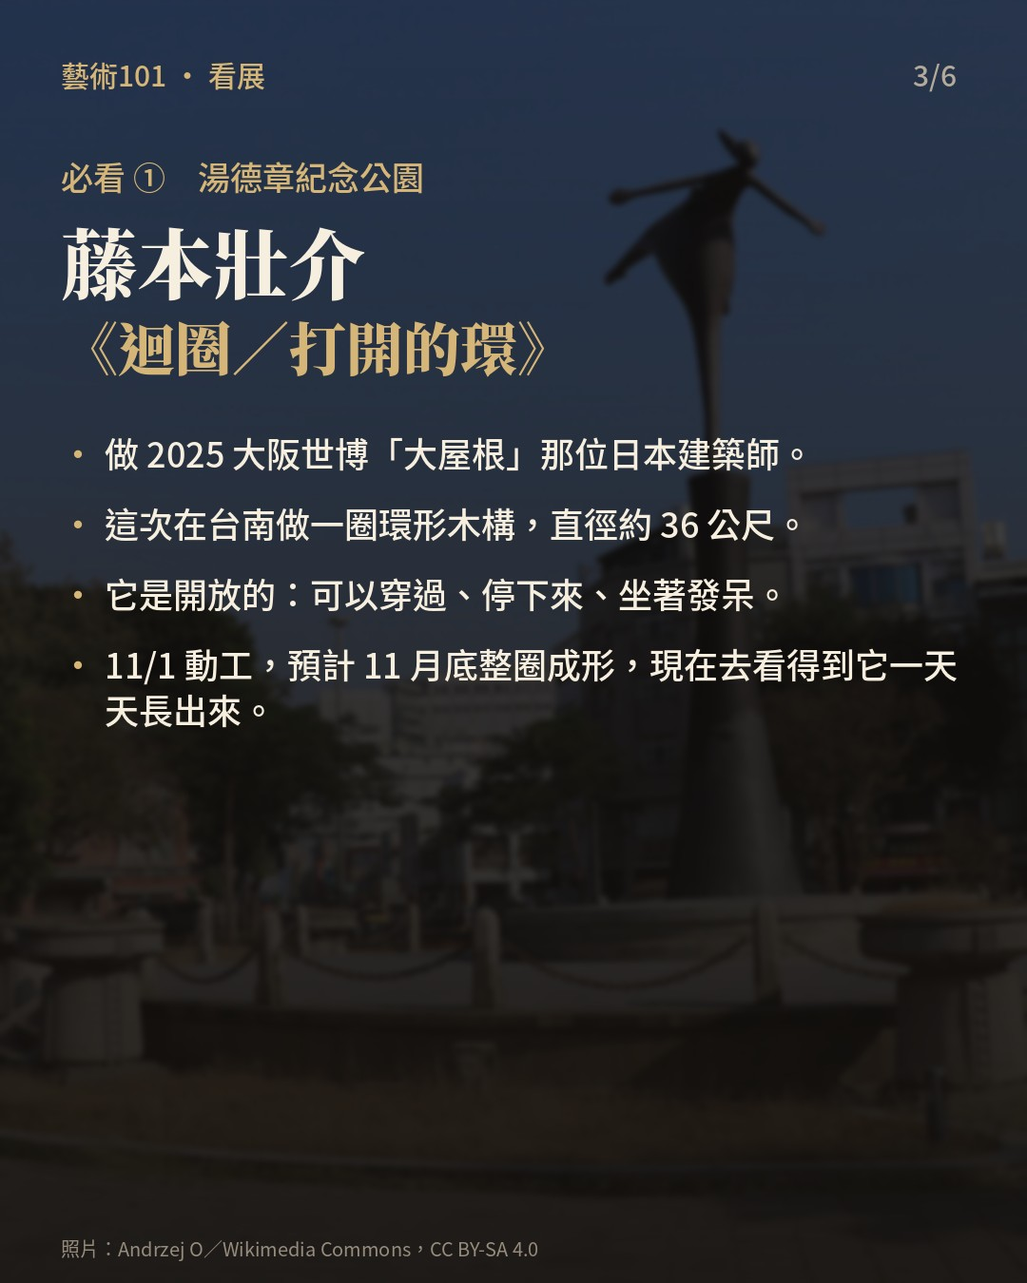
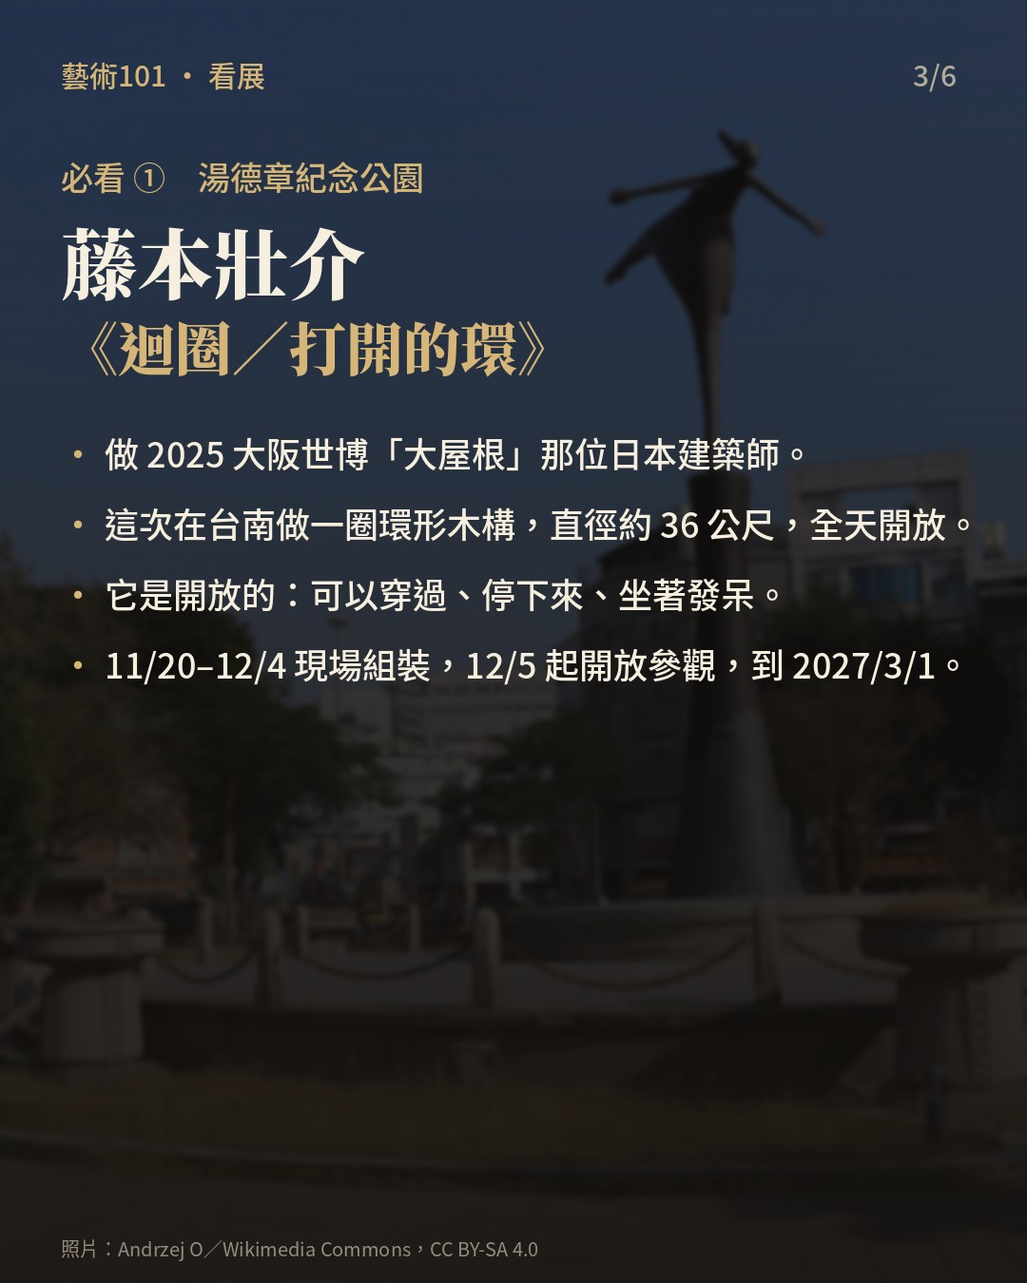
art101: 台南雙年展 32 展區互動地圖頁＋地圖輪播（11/22 10:00）；修正藤本木構開放日 12/5
Claude-Session: https://claude.ai/code/session_01KygmSQF8dun4emkJ3DwCDk

Changed region(s): [[0.0917, 0.4978, 0.9472, 0.5911], [0.7639, 0.3733, 0.9167, 0.4356]]

diff --git a/art101/tainan-biennale/index.html b/art101/tainan-biennale/index.html
@@ -1,0 +1,58 @@
+<!doctype html><html lang=zh-Hant><head><meta charset=utf-8><meta name=viewport content="width=device-width,initial-scale=1">
+<title>台南藝術雙年展 32 展區地圖｜藝術101</title><meta name=description content="第一屆台南藝術雙年展 32 個展區：位置、開放時間、要不要買票、看什麼，加兩條散步路線。">
+<meta property=og:title content="台南藝術雙年展 32 展區地圖｜藝術101"><meta property=og:description content="32 個展區一張地圖看完，附兩天散步路線。">
+<link href="https://fonts.googleapis.com/css2?family=Noto+Sans+TC:wght@400;700&family=Noto+Serif+TC:wght@700;900&display=swap" rel=stylesheet><link rel=stylesheet href="https://cdnjs.cloudflare.com/ajax/libs/leaflet/1.9.4/leaflet.min.css">
+<style>:root{--bg:#14120f;--ink:#efe8db;--mute:#a59b8a;--gold:#d8b46a;--card:#1d1a16;--line:#2e2a24;--hi:#fff8ea;--sat:#8fa7b8}
+*{box-sizing:border-box}body{margin:0;background:var(--bg);color:var(--ink);font:400 16px/1.75 'Noto Sans TC',system-ui,sans-serif}a{color:inherit;text-decoration:none}
+.wrap{max-width:1080px;margin:0 auto;padding:0 16px}header{position:sticky;top:0;z-index:1000;background:rgba(20,18,15,.92);backdrop-filter:blur(10px);border-bottom:1px solid var(--line)}
+header .wrap{display:flex;align-items:center;justify-content:space-between;height:56px;gap:12px}.logo{color:var(--gold);font-weight:700;letter-spacing:.18em;white-space:nowrap}
+nav{display:flex;gap:14px;font-size:14px;color:var(--mute);white-space:nowrap}nav a:hover,nav a.on{color:var(--hi)}@media(max-width:520px){nav{gap:10px;font-size:13px}.hide-s{display:none}}
+.top{padding:44px 0 18px}.eyebrow{color:var(--gold);letter-spacing:.25em;font-size:13px;margin:0 0 8px}h1{font:900 clamp(28px,6vw,44px)/1.3 'Noto Serif TC',serif;margin:0 0 10px;color:var(--hi)}
+.lead{color:var(--mute);max-width:680px;margin:0}.facts{display:flex;flex-wrap:wrap;gap:8px 18px;margin:16px 0 0;color:var(--ink);font-size:14px}.facts b{color:var(--gold);font-weight:700;margin-right:4px}
+.tools{display:flex;gap:8px;flex-wrap:wrap;margin:20px 0 14px}.chip{background:none;border:1px solid var(--line);color:var(--mute);padding:6px 14px;border-radius:999px;font:inherit;font-size:14px;cursor:pointer}.chip.on{border-color:var(--gold);color:var(--gold)}
+#map{height:62vh;min-height:380px;border-radius:8px;border:1px solid var(--line)}.leaflet-tile-pane{filter:invert(1) hue-rotate(180deg) brightness(.85) contrast(.9) saturate(.4)}
+.pin{width:28px;height:28px;border-radius:50%;display:flex;align-items:center;justify-content:center;font:700 12px 'Noto Sans TC';color:#1a150c;background:var(--gold);border:2px solid #1a150c;box-shadow:0 1px 4px #0008}.pin.s{background:var(--sat)}
+.leaflet-popup-content-wrapper,.leaflet-popup-tip{background:var(--card);color:var(--ink)}.leaflet-popup-content{font:14px/1.6 'Noto Sans TC';margin:12px 14px}.leaflet-popup-content b{color:var(--hi)}
+.routes{display:grid;grid-template-columns:repeat(auto-fit,minmax(300px,1fr));gap:16px;margin:28px 0}.route{background:var(--card);border:1px solid var(--line);border-radius:8px;padding:18px}
+.route h3{font:800 19px 'Noto Serif TC',serif;margin:0 0 4px;color:var(--hi)}.route p{margin:0 0 8px;color:var(--mute);font-size:14px}.route ol{margin:0;padding-left:22px;font-size:14px}
+h2{font:900 26px 'Noto Serif TC',serif;color:var(--hi);margin:36px 0 12px}.list{display:grid;grid-template-columns:repeat(auto-fill,minmax(300px,1fr));gap:14px;margin-bottom:50px}
+.v{background:var(--card);border:1px solid var(--line);border-radius:8px;padding:14px 16px;cursor:pointer}.v:hover{border-color:#4a4234}.v .h{display:flex;gap:10px;align-items:flex-start}
+.v .no{flex:none;width:30px;height:30px;border-radius:50%;background:var(--gold);color:#1a150c;font-weight:700;font-size:13px;display:flex;align-items:center;justify-content:center;margin-top:2px}.v.sat .no{background:var(--sat)}
+.v h3{font:800 17px/1.45 'Noto Serif TC',serif;margin:0;color:var(--hi)}.v .k{font-size:12px;color:var(--mute)}.v .note{margin:8px 0 6px;font-size:14px}.v .meta{font-size:13px;color:var(--mute)}
+.tag{display:inline-block;font-size:12px;padding:1px 8px;border-radius:999px;border:1px solid var(--line);margin:4px 6px 0 0}.tag.pay{border-color:var(--gold);color:var(--gold)}.tag.free{border-color:#5b7a5b;color:#9fc39f}
+.v a.g{font-size:13px;color:var(--gold)}.src{color:var(--mute);font-size:13px;margin:0 0 50px}
+</style></head><body>
+<header><div class=wrap><a class=logo href="/jimframe-site/art101/">藝術101</a><nav><a href="/jimframe-site/art101/#stories">名畫故事</a><a href="/jimframe-site/art101/guide/" class=hide-s>看展指南</a><a href="/jimframe-site/art101/map/">台北地圖</a><a href="/jimframe-site/art101/tainan-biennale/" class=on>台南雙年展</a></nav></div></header>
+<main class=wrap><div class=top><p class=eyebrow>TAINAN ART BIENNALE 2026</p><h1>台南藝術雙年展<br>32 個展區，一張地圖看完</h1>
+<p class=lead>第一屆台南藝術雙年展「迴圈．超展開」，以湯德章紀念公園的圓環為中心，沿著七條路散到整個中西區。點地圖上的號碼，看每一站在展什麼、幾點開、要不要買票。</p>
+<div class=facts><span><b>展期</b>2026/10/31–2027/3/1</span><span><b>門票</b>單日 NT$200、兩日 NT$300（ibon）</span><span><b>需購票</b>①市美館 ②國家美術館籌備處，其餘多數免費</span></div></div>
+<div class=tools id=f><button class="chip on" data-f=all>全部 32</button><button class=chip data-f=core>核心 16</button><button class=chip data-f=sat>衛星 16</button><button class=chip data-f=r1>路線一</button><button class=chip data-f=r2>路線二</button><button class=chip data-f=far>要騎車／開車</button></div>
+<div id=map></div>
+<div class=routes>
+<div class=route><h3>路線一：繞圓環一圈</h3><p>第一天。全程步行約 3 公里，抓 5–6 小時，記得帶雙年展票。</p><ol id=r1></ol></div>
+<div class=route><h3>路線二：北邊老城＋晚上的光</h3><p>第二天。廟、老戲院、老屋畫廊，最後到珍藝術空間看〈趨光〉（15:00 才開）。</p><ol id=r2></ol></div>
+<div class=route><h3>還有時間再去</h3><p>台南公園一帶：⑬ TAM+藝術之森、⑭ 弎畫廊、㉙ 甘樂阿舍、㉗ 海馬迴光畫館。<br>要騎車或開車：⑯ 府都建築館（安平）、㉛ 竹溪禪寺、㉜ 原型一號宅（東區）、㉘ 小轉角。</p></div>
+</div>
+<h2>32 個展區</h2><div class=list id=list></div>
+<p class=src>位置、開放時間與展名整理自<a href="https://tainanbiennial.org/venues" style="color:var(--gold)">臺南藝術雙年展官網</a>（2026/11/19）。各館時間可能調整，出發前再確認。地圖 © OpenStreetMap。</p>
+</main>
+<script src="https://cdnjs.cloudflare.com/ajax/libs/leaflet/1.9.4/leaflet.min.js"></script>
+<script>
+const V=[{"n": 1, "core": true, "name": "臺南市美術館", "lat": 22.991291, "lng": 120.205573, "show": "迴圈・超展開：第一屆臺南藝術雙年展（環境迴圈／歷史迴圈／集結迴圈／再生迴圈／風景迴圈／移動迴圈）　2026/10/31–2027/3/1", "hours": "週二至週日 10:00–18:00；週六 10:00–21:00；（憑雙年展票券參觀）", "closed": "週一休館（國定例假日若適逢週一，照常開放）", "ticket": "需雙年展票", "note": "主展館，七條迴圈裡有六條在這裡。必看杉原信幸＋中村綾花用養蚵繩編成的榕樹與船、佐佐木類〈未見的追憶〉。", "r": "r1"}, {"n": 2, "core": true, "name": "臺南國家美術館籌備處", "lat": 22.990457, "lng": 120.201591, "show": "「迴圈・超展開」第一屆臺南藝術雙年展", "hours": "週二至週日 10:00–18:00；週六開館至 21:00；（憑雙年展票券參觀）", "closed": "", "ticket": "需雙年展票", "note": "「被消逝的迴圈」：石川欽一郎、郭雪湖、林玉山、顏水龍等人的台灣美術與設計。", "r": "r1"}, {"n": 3, "core": true, "name": "湯德章紀念公園", "lat": 22.992596, "lng": 120.205058, "show": "環境迴圈　2026/12/5–2027/3/1", "hours": "全日開放；藤本壯介〈迴圈／打開的環〉；工廠預製　2026.10.31–11.20；現地組裝　2026.11.20–12.4；開放參觀　2026.12.5–2027.3.1", "closed": "", "ticket": "不用雙年展票", "note": "藤本壯介〈迴圈／打開的環〉，直徑約 36 公尺的環形木構。11/20–12/4 現場組裝，12/5 起開放。", "r": "r1"}, {"n": 4, "core": true, "name": "國立臺灣文學館＋文化部文化資產局文化資產保存研究中心", "lat": 22.991801, "lng": 120.204374, "show": "國立臺灣文學館：歷史迴圈　2026/10/31–2027/3/1\n文化部文化資產局文化資產保存研究中心：再生迴圈　2026/10/31–2027/3/1", "hours": "國立臺灣文學館：週二至週日 9:00–18:00；文化部文化資產局文化資產保存研究中心：週一至週五 8:30–17:30", "closed": "", "ticket": "不用雙年展票", "note": "日治時期的台南州廳。文學館是歷史迴圈，文資中心是再生迴圈。", "r": "r1"}, {"n": 5, "core": true, "name": "臺南市中西區圖書館", "lat": 22.992061, "lng": 120.203839, "show": "集結迴圈　2026/10/31–2027/3/1", "hours": "週二至週六 08:30–20:30；週日 08:30–17:30；週日閉館前30分鐘櫃台暫停受理借閱證申請及借還書作業", "closed": "週一、國定假日及每月最後週五（清潔日）休館", "ticket": "不用雙年展票", "note": "〈NaNaNews 七條通新聞社〉：沿著圓環七條路採訪出來的社區小報。", "r": "r1"}, {"n": 6, "core": true, "name": "葉石濤文學紀念館", "lat": 22.990944, "lng": 120.203618, "show": "集結迴圈／黑秀美—大女纖維共創計劃　2026/10/31–2027/3/1", "hours": "週三至週日 09:00–17:00", "closed": "", "ticket": "不用雙年展票", "note": "〈黑秀美 Oh!Siubi〉：中年女性讀葉石濤，再把感受織成旗幟、衣服和遊行。", "r": "r1"}, {"n": 7, "core": true, "name": "臺南孔廟", "lat": 22.990305, "lng": 120.204252, "show": "風景迴圈　2026/10/31–2027/3/1", "hours": "週一至週四、週日 08:30–17:30；週五、週六 08:30–21:00；（憑雙年展票券參觀）", "closed": "僅小年夜及除夕休館", "ticket": "雙年展票可入", "note": "風景迴圈（莊東橋策展），在全台首學看當代作品。", "r": "r1"}, {"n": 8, "core": true, "name": "愛國婦人會館", "lat": 22.9886, "lng": 120.204184, "show": "歷史迴圈　2026/10/31–2027/3/1", "hours": "週二至週日 09:00–17:00（依實際場館營運狀況有所調整）", "closed": "除夕休館", "ticket": "不用雙年展票", "note": "歷史迴圈：以 1915 年噍吧哖事件為主題。", "r": "r1"}, {"n": 9, "core": true, "name": "司法博物館", "lat": 22.989312, "lng": 120.201088, "show": "歷史迴圈　2026/10/31–2027/3/1", "hours": "週二至週日 09:00–17:00", "closed": "每週一、農曆春節、清明節、端午節及中秋節等國定民俗節日休館；若因其他因素暫停開放則另行公告。", "ticket": "不用雙年展票", "note": "吳語涵＋沈肱泓〈遊街—噍吧哖事件：城市劇場〉。", "r": "r1"}, {"n": 10, "core": true, "name": "臺灣府城隍廟", "lat": 22.992205, "lng": 120.209109, "show": "集結迴圈　2026/10/31–2027/3/1\n迴圈．遶境｜百虎計畫　2026/10/31–2027/3/1", "hours": "每日 06:00–21:00", "closed": "", "ticket": "不用雙年展票", "note": "集結迴圈，也是「百虎計畫」遶境的一站。", "r": "r2"}, {"n": 11, "core": true, "name": "B.B.ART", "lat": 22.994478, "lng": 120.205139, "show": "集結迴圈／新生態藝術環境　2026/10/31–2027/3/1", "hours": "週二至週六 11:30–19:00", "closed": "國定假期不定休，請參考官方帳號公告。雙年展期間週日開放參觀。", "ticket": "不用雙年展票", "note": "集結迴圈「新生態藝術環境」，老屋畫廊。", "r": "r2"}, {"n": 12, "core": true, "name": "全美戲院", "lat": 22.995207, "lng": 120.201446, "show": "集結迴圈　2026/10/31–2027/3/1\n迴圈．遶境｜百虎計畫　2026/10/31–2027/3/1", "hours": "週二至週日 12:00–18:00", "closed": "", "ticket": "不用雙年展票", "note": "還在用手繪看板的老戲院，也是百虎計畫一站。", "r": "r2"}, {"n": 13, "core": true, "name": "TAM＋藝術之森／原臺南公園管理所", "lat": 23.003161, "lng": 120.211547, "show": "集結迴圈　2026/10/31–2027/3/1", "hours": "週二至週日 10:00–12:00、13:00–17:00", "closed": "", "ticket": "不用雙年展票", "note": "台南公園裡的老建築，原臺南公園管理所。", "r": "r3"}, {"n": 14, "core": true, "name": "弎畫廊", "lat": 23.000013, "lng": 120.212066, "show": "再生迴圈　2026/10/31–2027/3/1\n牧田愛 個展 2026/11/07–12/31\n趙南開、張婷雅 聯展 2027/01/09–02/27\n野中美里 個展 2027/03/13–04/24", "hours": "週二至週六 10:00–18:00；憑雙年展藝術護照免票；持雙年展一日票、雙日票票根，票價八折優惠", "closed": "", "ticket": "護照免費／票根8折", "note": "再生迴圈。藝術護照免費入場，雙年展票根 8 折。", "r": "r3"}, {"n": 15, "core": true, "name": "絕對空間", "lat": 22.993796, "lng": 120.199478, "show": "移動迴圈　2026/10/31–2026/12/27\n扁平後閃光—蕭琪玫個展　2027/1/6–2027/2/21", "hours": "週三至週日 13:00–19:00", "closed": "週一公休，週二採預約制", "ticket": "不用雙年展票", "note": "移動迴圈到 12/27；1 月起是蕭琪玫個展。", "r": "r2"}, {"n": 16, "core": true, "name": "府都建築館", "lat": 22.998804, "lng": 120.145517, "show": "環境迴圈　2026/10/31–2027/3/1\r\n「看不見的城市」（策展人：翁廷楷）", "hours": "週一至週五 10:00-12:00；13:30-17:30\r；週六至週日 13:00–17:00", "closed": "", "ticket": "不用雙年展票", "note": "環境迴圈「看不見的城市」。在安平，要騎車或開車。", "r": "far"}, {"n": 17, "core": false, "name": "臺南林百貨", "lat": 22.99171, "lng": 120.202527, "show": "迴圈．遶境｜百虎計畫　2026/10/31–2027/3/1", "hours": "週一至週日 11:00–21:00", "closed": "", "ticket": "不用雙年展票", "note": "4 樓。百虎計畫；12 月有「府城摩登大遊行」演出。", "r": "r1"}, {"n": 18, "core": false, "name": "八吉境道署關帝廳", "lat": 22.991429, "lng": 120.201088, "show": "迴圈．遶境｜百虎計畫　2026/10/31–2027/3/1", "hours": "週一至週日 07:00–18:00", "closed": "", "ticket": "不用雙年展票", "note": "百虎計畫。廟埕和廟裡放映國家影視聽中心修復的老電影。", "r": "r1"}, {"n": 19, "core": false, "name": "友愛街旅館＋大女Style聚落", "lat": 22.990844, "lng": 120.199859, "show": "友愛街旅館：迴圈．遶境｜百虎計畫　2026/10/31–2027/3/1\n大女Style聚落：黑秀美—大女纖維共創計劃　2026/10/31–2027/3/1", "hours": "友愛街旅館：全日開放；大女Style聚落：週一至週五 10:00–18:00", "closed": "大女Style聚落：週末及國定假日公休", "ticket": "不用雙年展票", "note": "百虎計畫＋〈黑秀美〉在大女 Style 聚落的織品（友愛市場 4 樓）。", "r": "r1"}, {"n": 20, "core": false, "name": "德鴻畫廊", "lat": 22.99308, "lng": 120.205341, "show": "日常與麵包　2026/11/21–2027/1/9", "hours": "週二至週六 11:00–19:00", "closed": "", "ticket": "不用雙年展票", "note": "〈日常與麵包〉11/21 開展。", "r": "r2"}, {"n": 21, "core": false, "name": "太平境馬雅各紀念教會＋公園路8號", "lat": 22.993331, "lng": 120.205521, "show": "太平境馬雅各紀念教會：迴圈・超展開　2026/10/31–2027/3/1\n公園路8號：迴圈破局：命運重生軍　2026/10/31–2026/11/30\n流動的絲路　2026/10/31–2026/11/30\n經典建築的次文化想像　2026/10/31–2026/11/30", "hours": "太平境馬雅各紀念教會：週二、四、五 08:00–12:00、14:00–18:00；週三 08:00–12:00、14:00–21:30；週六 08:00–12:00、14:00–22:00；週日 08:00–14:30；公園路8號：週二至週日 12:00–18:00", "closed": "", "ticket": "不用雙年展票", "note": "百年教會裡的雙年展作品；隔壁公園路 8 號另有展。", "r": "r2"}, {"n": 22, "core": false, "name": "臺灣首廟天壇（天公廟）", "lat": 22.993721, "lng": 120.204199, "show": "迴圈．遶境｜百虎計畫　2026/10/31–2027/3/1", "hours": "週一至週日 06:00–21:00", "closed": "", "ticket": "不用雙年展票", "note": "天公廟，百虎計畫一站。", "r": "r2"}, {"n": 23, "core": false, "name": "文鼎留聲博物館", "lat": 22.995222, "lng": 120.202647, "show": "迴圈．遶境｜百虎計畫　2026/10/31–2027/3/1", "hours": "週三至週日 10:00–17:30（須購票入場，出示雙年展票根享9折）", "closed": "", "ticket": "另收門票", "note": "留聲機與台日老歌。另收門票，票根 9 折。", "r": "r2"}, {"n": 24, "core": false, "name": "艸祭Book inn", "lat": 22.989538, "lng": 120.204786, "show": "迴圈．遶境｜百虎計畫　2026/10/31–2027/3/1", "hours": "週三至週日 12:00–18:00（憑雙年展票券參觀）", "closed": "", "ticket": "不用雙年展票", "note": "獨立書店改成的背包客棧，影像放映；李育昇〈電氣石虎童「虤虤」〉。", "r": "r1"}, {"n": 25, "core": false, "name": "珍藝術空間", "lat": 22.990551, "lng": 120.206639, "show": "趨光　2026/10/31–2027/3/1\n光抵達之後　2026/10/31–2027/3/1", "hours": "週二至週日 15:00–21:00", "closed": "", "ticket": "不用雙年展票", "note": "〈趨光 Born Through the Breach〉（艸非火策展），拿手電筒找作品。下午 3 點才開，適合晚上去。", "r": "r2"}, {"n": 26, "core": false, "name": "山前世界", "lat": 22.988874, "lng": 120.208023, "show": "迴圈．遶境｜百虎計畫　2026/10/31–2027/3/1", "hours": "週二至週日 12:00–18:00", "closed": "", "ticket": "不用雙年展票", "note": "新銳藝術家的實驗計畫與影像。", "r": "r2"}, {"n": 27, "core": false, "name": "海馬迴光畫館", "lat": 22.997662, "lng": 120.208286, "show": "街拍記2026—此路不通的施工漫遊　2026/12/26–2027/1/31", "hours": "週三至週日 14:00–20:00", "closed": "", "ticket": "不用雙年展票", "note": "攝影藝廊，12/26 開展。", "r": "r3"}, {"n": 28, "core": false, "name": "小轉角", "lat": 22.986609, "lng": 120.210116, "show": "日常風景採集計畫—微型櫥窗展　2026/12/19–2027/1/24", "hours": "12/19–1/24 週四至週日 11:00–17:00（室內空間依特定活動開放）", "closed": "", "ticket": "不用雙年展票", "note": "微型櫥窗展，12/19–1/24；從街上就看得到。", "r": "far"}, {"n": 29, "core": false, "name": "甘樂阿舍美術館", "lat": 22.999621, "lng": 120.208485, "show": "表千家茶人器物展　2026/11/4–2026/12/12\n能量風景—曾英棟個展　2026/12/16–2027/2/27", "hours": "週三至週六 12:00–17:00", "closed": "", "ticket": "不用雙年展票", "note": "12/12 前是茶人器物展，12/16 起曾英棟個展。", "r": "r3"}, {"n": 30, "core": false, "name": "暮拉多元藝術空間", "lat": 22.993781, "lng": 120.197534, "show": "踅 PURSUIT　2026/12/12–2027/2/28\n浮日　2026/10/7–2026/11/29", "hours": "週一至週日 10:30–19:00", "closed": "", "ticket": "不用雙年展票", "note": "12/12 起〈踅 PURSUIT〉。", "r": "r2"}, {"n": 31, "core": false, "name": "臺南市竹溪禪寺", "lat": 22.977327, "lng": 120.209295, "show": "跨世紀竹溪禪寺佛教文物展　2026/10/31–2027/3/1 (2026/11/14–20不開放)", "hours": "週二至週日 09:00–16:00", "closed": "2026/11/14–20不開放", "ticket": "不用雙年展票", "note": "百年禪寺的佛教文物展（11/14–11/20 不開放）。", "r": "far"}, {"n": 32, "core": false, "name": "原型一號宅", "lat": 22.959952, "lng": 120.230641, "show": "建築的無限可能：從WOOD材料到環境迴圈的超展開　2026/11/14–2027/3/1", "hours": "週五至週日 13:00–17:00", "closed": "", "ticket": "不用雙年展票", "note": "木構建築展，11/14 開展。在東區，要騎車或開車。", "r": "far"}],R={"r1": [3, 4, 5, 1, 7, 24, 8, 6, 17, 2, 18, 9, 19], "r2": [10, 21, 20, 11, 22, 23, 12, 15, 30, 25, 26]};const esc=s=>s.replace(/[&<>]/g,c=>({'&':'&amp;','<':'&lt;','>':'&gt;'})[c]);
+const map=L.map('map',{scrollWheelZoom:false}).setView([22.993,120.205],15);
+L.tileLayer('https://tile.openstreetmap.org/{z}/{x}/{y}.png',{attribution:'&copy; OpenStreetMap',maxZoom:19}).addTo(map);
+const by={};const mk={};
+V.forEach(v=>{by[v.n]=v;const ic=L.divIcon({className:'',html:`<div class="pin ${v.core?'':'s'}">${v.n}</div>`,iconSize:[28,28],iconAnchor:[14,14]});
+mk[v.n]=L.marker([v.lat,v.lng],{icon:ic}).bindPopup(`<b>${v.n}　${esc(v.name)}</b><br>${esc(v.note)}<br><span style="color:#a59b8a">${esc(v.hours)}</span><br><a style="color:#d8b46a" target=_blank href="https://www.google.com/maps/search/?api=1&query=${v.lat},${v.lng}">Google 地圖導航 →</a>`).addTo(map)});
+const line={r1:L.polyline(R.r1.map(n=>[by[n].lat,by[n].lng]),{color:'#d8b46a',weight:3,dashArray:'6 6'}),r2:L.polyline(R.r2.map(n=>[by[n].lat,by[n].lng]),{color:'#8fa7b8',weight:3,dashArray:'6 6'})};
+['r1','r2'].forEach(r=>document.getElementById(r).innerHTML=R[r].map(n=>`<li>（${n}）${esc(by[n].name)}</li>`).join(''));
+const list=document.getElementById('list');
+function draw(f){const show=v=>f=='all'||(f=='core'&&v.core)||(f=='sat'&&!v.core)||v.r==f;
+list.innerHTML=V.filter(show).map(v=>`<div class="v ${v.core?'':'sat'}" data-n=${v.n}><div class=h><div class=no>${v.n}</div><div><h3>${esc(v.name)}</h3><div class=k>${v.core?'核心展館':'衛星展館'}</div></div></div><div class=note>${esc(v.note)}</div><div class=meta>${esc(v.hours)}${v.closed?'｜'+esc(v.closed):''}</div><span class="tag ${v.ticket.startsWith('需')||v.ticket.startsWith('另')?'pay':v.ticket=='不用雙年展票'?'free':''}">${v.ticket}</span> <a class=g target=_blank href="https://www.google.com/maps/search/?api=1&query=${v.lat},${v.lng}">導航 →</a></div>`).join('');
+V.forEach(v=>{const m=mk[v.n];show(v)?m.addTo(map):m.remove()});
+Object.entries(line).forEach(([k,l])=>f==k?l.addTo(map):l.remove());
+if(f=='all'||f=='core'||f=='sat')map.setView([22.9928,120.2048],15);else{const pts=V.filter(show).map(v=>[v.lat,v.lng]);if(pts.length)map.fitBounds(pts,{padding:[30,30],maxZoom:16})}}
+document.getElementById('f').onclick=e=>{const b=e.target.closest('.chip');if(!b)return;document.querySelectorAll('.chip').forEach(c=>c.classList.toggle('on',c==b));draw(b.dataset.f)};
+list.onclick=e=>{const c=e.target.closest('.v');if(!c||e.target.closest('a'))return;const v=by[c.dataset.n];map.setView([v.lat,v.lng],17);mk[v.n].openPopup();document.getElementById('map').scrollIntoView({behavior:'smooth',block:'center'})};
+draw('all');
+</script></body></html>

diff --git a/art101/index.html b/art101/index.html
@@ -96,7 +96,7 @@ footer a{color:var(--gold)}
 <body>
 <header><div class="wrap">
   <a class="logo" href="#top">藝術101</a>
-  <nav><a href="#stories">名畫故事</a><a href="guide/">看展指南</a><a href="map/">藝術地圖</a><a href="#newsletter" class="hide-s">電子報</a><a href="https://www.instagram.com/art101.tw/" target="_blank" rel="noopener" class="hide-s">IG</a></nav>
+  <nav><a href="#stories">名畫故事</a><a href="guide/">看展指南</a><a href="map/">藝術地圖</a><a href="tainan-biennale/" class="hide-s">台南雙年展</a><a href="#newsletter" class="hide-s">電子報</a><a href="https://www.instagram.com/art101.tw/" target="_blank" rel="noopener" class="hide-s">IG</a></nav>
 </div></header>
 
 <main id="top">
@@ -133,6 +133,7 @@ footer a{color:var(--gold)}
   <div class="sec-h"><div><h2>看展指南與藝術地圖</h2><p>從 Art Taipei 2026 出發，第一次看展也看得懂。</p></div></div>
   <div class="grid">
     <a class="card" href="guide/"><img loading="lazy" src="guide/img/1-16_01.jpg" alt="看展指南"><div class="b"><h3>看展指南</h3><p class="who">55 篇・每篇三分鐘</p><p>畫廊怎麼逛、紅點貼紙是什麼、第一次買藝術品要注意什麼。</p></div></a>
+    <a class="card" href="tainan-biennale/"><img loading="lazy" src="img/tnb_card.jpg" alt="台南藝術雙年展地圖"><div class="b"><h3>台南雙年展 32 展區地圖</h3><p class="who">2026/10/31–2027/3/1</p><p>每個展區在展什麼、幾點開、要不要買票，附兩天散步路線。</p></div></a>
     <a class="card" href="map/"><img loading="lazy" src="guide/img/2-06_01.jpg" alt="藝術地圖"><div class="b"><h3>台北藝術地圖</h3><p class="who">美術館・藝術村・畫廊</p><p>點地標看介紹，有寫過的地方直接連到文章，還能一鍵導航。</p></div></a>
   </div>
 </section>
